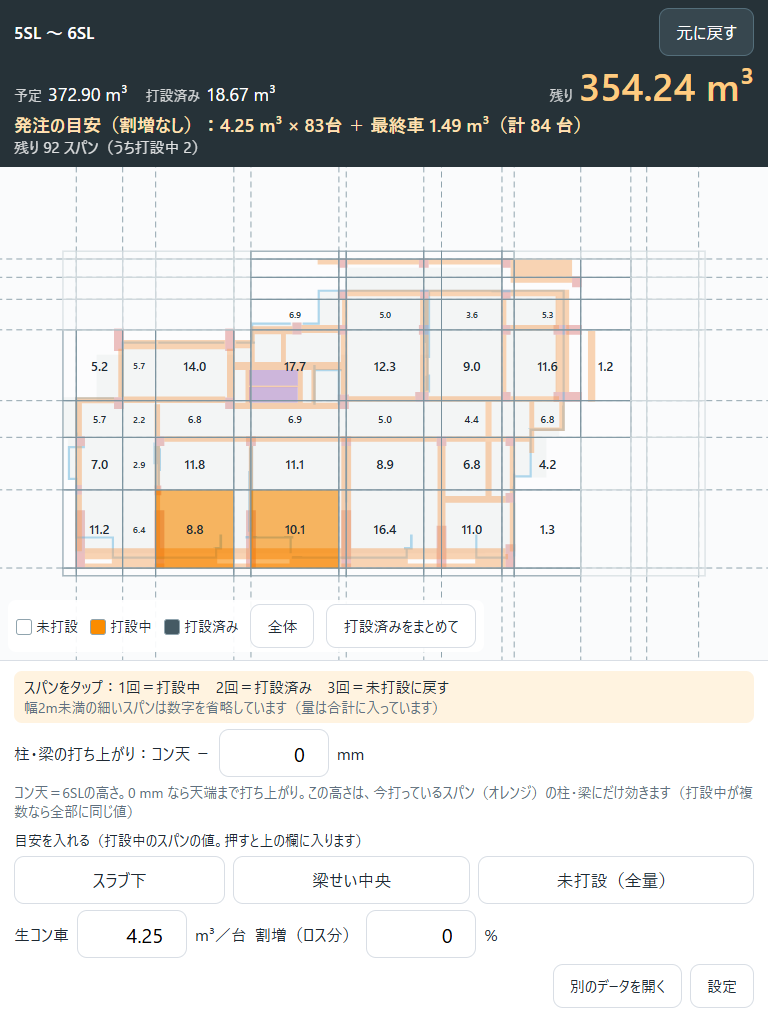
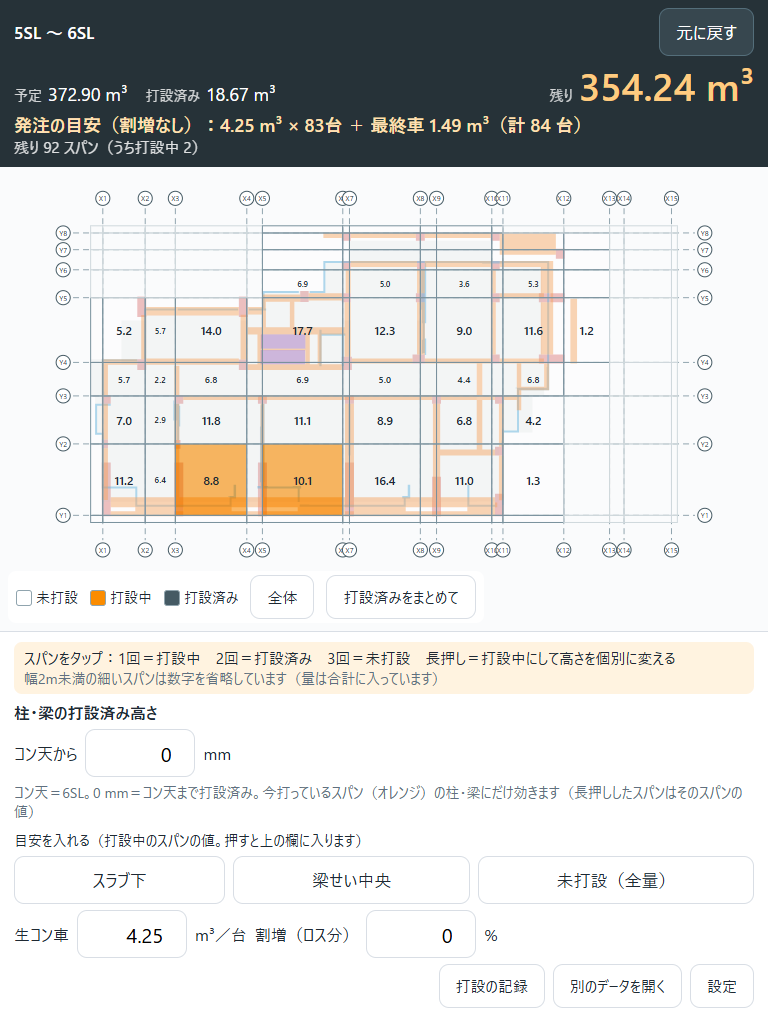
柱・梁の高さ欄を「打設済み高さ／コン天から ○ mm」の2段に、記録まわりの文言を直す
- PC・タブレットとも「柱・梁の打設済み高さ」「コン天から ［0］ mm」の2段に（利用者の要望）。結果の文・一覧表・記録の表の見出しもそろえる
- タブレット：下のボタンを「打設の記録」、設定側を「エラーの記録」に書き分け。保存した作業を消すボタンに「打設の記録も消えます」
- 長押しの説明（打設中にして高さを個別に変える）、「この高さで閉じる」「共通の高さに戻す」、見出し「選んだスパン（…）だけの打設済み高さ」
- 通り芯を建物のすぐ外で切って丸印を置き、全体表示で X1〜X15・Y1〜Y8 が見えるように
- 記録の行：残りを右端にそろえ、0 mm は「コン天まで」、取り消しは「元に戻す（直前の操作を取り消し）」。共有の説明を「Excelで開ける表」に、保存先を明記
- PC：生コン車と割増を2行に分ける（狭い幅で1文字ずつ折り返していた）
- site-reviewer 4回目・5回目のレビューと画面写真を docs/reviews/ に。版 1.4.1

Changed region(s): [[0.0, 0.1562, 1.0, 0.8125], [0.5938, 0.9375, 0.6875, 0.9688]]

diff --git a/site_app/app.js b/site_app/app.js
@@ -2,7 +2,7 @@
 import { fmt, fullVolume, parseSiteData, presetMm, totals, remaining, truckPlan } from './calc.js';
 import { STATUS_NAME, recordCsv, stamp, zoneKeyOf, zoneTitle } from './record.js';
 
-const APP_VERSION = '1.4.0'; // sw.js の VERSION と合わせる（キャッシュで古い版が動いていないか確かめる用）
+const APP_VERSION = '1.4.1'; // sw.js の VERSION と合わせる（キャッシュで古い版が動いていないか確かめる用）
 const $ = (id) => document.getElementById(id);
 const SVGNS = 'http://www.w3.org/2000/svg';
 const CAT_COLORS = { 柱: '#c62828', 梁: '#ef6c00', 壁: '#0288d1', スラブ: '#a0a4a8', 基礎: '#6d4c41', 階段: '#6a1b9a', その他: '#546e7a' };
@@ -65,7 +65,7 @@ function undo() {
   if (!prev) return;
   Object.assign(work, prev);
   if (editId && statusOf(editId) !== 'pouring') editId = null; // 戻した結果、打設中でなくなったら入力を終える
-  logEvent('元に戻す', []);
+  logEvent('元に戻す（直前の操作を取り消し）', []);
   save();
   syncInputs();
   updateCells();
@@ -153,12 +153,30 @@ function centroid(ring) {
   return [pts.reduce((a, p) => a + p[0], 0) / pts.length, pts.reduce((a, p) => a + p[1], 0) / pts.length];
 }
 
+// 通り芯（直線）を枠の中に収まる区間にする。枠に掛からなければ null（Liang–Barsky）
+function clipToFrame([sx, sy], [ex, ey], [fx0, fy0, fx1, fy1]) {
+  const dx = ex - sx, dy = ey - sy;
+  let t0 = -Infinity, t1 = Infinity; // 線を両側に延ばしてから枠で切る
+  for (const [p, q] of [[-dx, sx - fx0], [dx, fx1 - sx], [-dy, sy - fy0], [dy, fy1 - sy]]) {
+    if (Math.abs(p) < 1e-12) { if (q < 0) return null; continue; }
+    const t = q / p;
+    if (p < 0) t0 = Math.max(t0, t); else t1 = Math.min(t1, t);
+  }
+  if (!(t0 < t1)) return null;
+  return [[sx + dx * t0, sy + dy * t0], [sx + dx * t1, sy + dy * t1]];
+}
+
 function buildPlan() {
   const svg = $('plan');
   svg.replaceChildren();
   const [x0, y0, x1, y1] = data.bounds;
-  const size = Math.max(x1 - x0, y1 - y0), m = size * 0.06 + 2;
-  home = [x0 - m, -y1 - m, x1 - x0 + 2 * m, y1 - y0 + 2 * m];
+  const size = Math.max(x1 - x0, y1 - y0), m = size * 0.02 + 1;
+  // 通り芯は建物のすぐ外までで切り、丸印（X1 などの記号）をそこに置く。全体表示は丸印まで入る範囲にする
+  const r = size * 0.012, pad = size * 0.03;
+  const frame = [x0 - pad, y0 - pad, x1 + pad, y1 + pad];
+  const out = pad + r * 2.6;
+  const h = y1 - y0 + 2 * (out + m), legend = h * 0.12; // 下に重なる凡例の分だけ下側を空ける
+  home = [x0 - out - m, -y1 - out - m, x1 - x0 + 2 * (out + m), h + legend];
   setViewBox(home);
 
   // 部材の位置（外接矩形）を種別ごとに1本のパスで薄く描く
@@ -192,9 +210,10 @@ function buildPlan() {
 
   // 通り芯と記号
   const grid = el('g', { class: 'grid' });
-  const r = size * 0.012;
   for (const g of data.grids ?? []) {
-    const [sx, sy] = g.start, [ex, ey] = g.end, len = Math.hypot(ex - sx, ey - sy) || 1;
+    const seg = clipToFrame(g.start, g.end, frame);
+    if (!seg) continue;
+    const [[sx, sy], [ex, ey]] = seg, len = Math.hypot(ex - sx, ey - sy) || 1;
     const ux = (ex - sx) / len, uy = (ey - sy) / len;
     grid.appendChild(el('line', { x1: sx, y1: -sy, x2: ex, y2: -ey }));
     for (const [px, py] of [[sx - ux * r * 1.4, sy - uy * r * 1.4], [ex + ux * r * 1.4, ey + uy * r * 1.4]]) {
@@ -285,13 +304,13 @@ function render() {
   $('undo').disabled = !work.undo.length;
   const topName = (data.storeys ?? []).find((s) => Math.abs(s.elevation - data.z1) < 0.005)?.name;
   const edit = editId && cellEls.get(editId)?.cell;
-  $('depthLabel').textContent = edit ? `${edit.label} だけの打ち上がり：コン天 −` : '柱・梁の打ち上がり：コン天 −';
+  $('depthLabel').textContent = edit ? `選んだスパン（${edit.label}）だけの打設済み高さ` : '柱・梁の打設済み高さ';
   $('ownBox').classList.toggle('hidden', !edit);
+  const top = `コン天＝${topName ?? '高さ範囲の上端'}。0 mm＝コン天まで打設済み`;
   $('depthNote').textContent = edit
-    ? `このスパンだけの高さです（共通の ${work.depth.toLocaleString('ja-JP')} mm より優先）。コン天＝${topName ?? '高さ範囲の上端'}`
-    : `コン天＝${topName ?? '高さ範囲の上端'}の高さ。0 mm なら天端まで打ち上がり。` +
-      (pouring ? 'この高さは、今打っているスパン（オレンジ）の柱・梁にだけ効きます（打設中が複数なら全部に同じ値。長押ししたスパンはそのスパンの値）'
-        : '今打っているスパンがありません（スパンをタップすると打設中になります）');
+    ? `${top}。ほかの打設中のスパンは共通の ${work.depth.toLocaleString('ja-JP')} mm のまま`
+    : `${top}。` + (pouring ? '今打っているスパン（オレンジ）の柱・梁にだけ効きます（長押ししたスパンはそのスパンの値）'
+      : '今打っているスパンがありません（スパンをタップすると打設中になります）');
 }
 
 // 長押し：そのスパンを打設中にして、下段の打ち上がりをそのスパンだけの値にする
@@ -314,7 +333,7 @@ function endOwnDepth(resetToCommon) {
   if (resetToCommon && editId && work.cellDepth[editId] !== undefined) {
     pushUndo();
     delete work.cellDepth[editId];
-    logEvent('そのスパンの高さを共通の値に戻す', [editId], work.depth);
+    logEvent('そのスパンの高さを共通に戻す', [editId], work.depth);
     save();
   }
   editId = null;
@@ -504,7 +523,7 @@ function applyPreset(kind) {
   }
   pushUndo();
   setDepth(mm);
-  logEvent(`打ち上がり：${PRESET_NAME[kind]}`, depthTargets(), mm);
+  logEvent(`打設済み高さ：${PRESET_NAME[kind]}`, depthTargets(), mm);
   syncInputs();
   save();
   updateCells();
@@ -538,7 +557,7 @@ async function copyErrors() {
   }
 }
 function clearWork() {
-  if (!confirm('この端末に保存した作業（スパンの状態・入力値）をすべて消します。よろしいですか？')) return;
+  if (!confirm('この端末に保存した作業（スパンの状態・入力値・打設の記録）をすべて消します。よろしいですか？')) return;
   try {
     Object.keys(localStorage).filter((k) => k.startsWith(STORE) || k === LAST).forEach((k) => localStorage.removeItem(k));
   } catch { /* 保存できない環境 */ }
@@ -548,12 +567,14 @@ function clearWork() {
 }
 
 // ---------- 記録の画面と共有 ----------
+const depthText = (mm) => (mm ? `コン天から ${mm.toLocaleString('ja-JP')} mm` : 'コン天まで');
 function openHistory() {
   const list = $('historyList');
   list.replaceChildren();
   const items = [...work.log].reverse();
   if (!items.length) {
     const li = document.createElement('li');
+    li.className = 'none';
     li.textContent = 'まだ記録はありません（スパンをタップすると残ります）';
     list.appendChild(li);
   }
@@ -565,9 +586,16 @@ function openHistory() {
     const rest = document.createElement('span');
     rest.className = 'rest';
     rest.textContent = `残り ${fmt(e.remaining)} m³`;
-    const what = [e.zone, e.action, e.spans.length > 3 ? `${e.spans.length} スパン` : e.spans.join('・'),
-      e.depthMm !== undefined && e.depthMm !== null ? `コン天 −${e.depthMm} mm` : ''].filter(Boolean).join('　');
-    li.append(time, rest, document.createTextNode(what));
+    const what = [e.zone, e.action, e.spans.length > 3 ? `${e.spans.length} スパン` : e.spans.join('・')].filter(Boolean).join('　');
+    const body = document.createElement('span');
+    body.textContent = what;
+    if (e.depthMm !== undefined && e.depthMm !== null) {
+      const dep = document.createElement('span');
+      dep.className = 'depth';
+      dep.textContent = depthText(e.depthMm);
+      body.append('　', dep);
+    }
+    li.append(time, body, rest);
     list.appendChild(li);
   }
   $('history').classList.remove('hidden');
@@ -593,7 +621,7 @@ async function shareRecord() {
   a.download = name;
   a.click();
   setTimeout(() => URL.revokeObjectURL(a.href), 1000);
-  toast('記録をファイルに保存しました');
+  toast('記録をこの端末のダウンロードに保存しました');
 }
 
 // ---------- 起動 ----------
@@ -615,7 +643,7 @@ $('bulk').addEventListener('click', () => {
 });
 bindNumber('depth', 'depth');
 $('depth').addEventListener('change', () => { // 入力を終えたときに1件だけ記録する（1文字ごとには残さない）
-  logEvent('打ち上がり：数値で入力', depthTargets(), Math.max(0, Number($('depth').value) || 0));
+  logEvent('打設済み高さ：数値で入力', depthTargets(), Math.max(0, Number($('depth').value) || 0));
   save();
 });
 bindNumber('truck', 'truck');

diff --git a/site_app/index.html b/site_app/index.html
@@ -21,7 +21,7 @@
     <p class="note">PCアプリの「タブレット用に書き出す」で作ったファイルを選んでください</p>
     <div id="lastWork" class="lastwork hidden"></div>
     <p id="startError" class="error hidden"></p>
-    <p class="note"><button class="btn small" data-open-settings>設定・不具合の記録</button></p>
+    <p class="note"><button class="btn small" data-open-settings>設定・エラーの記録</button></p>
   </section>
 
   <!-- 作業画面 -->
@@ -51,15 +51,16 @@
     </div>
 
     <footer class="controls">
-      <div class="taphint">スパンをタップ：1回＝打設中　2回＝打設済み　3回＝未打設に戻す　長押し＝そのスパンだけ高さを変える<br>
+      <div class="taphint">スパンをタップ：1回＝打設中　2回＝打設済み　3回＝未打設　長押し＝打設中にして高さを個別に変える<br>
         <span class="small muted">幅2m未満の細いスパンは数字を省略しています（量は合計に入っています）</span></div>
+      <div class="depthhead" id="depthLabel">柱・梁の打設済み高さ</div>
       <div class="row">
-        <label for="depth" id="depthLabel">柱・梁の打ち上がり：コン天 −</label>
+        <label for="depth">コン天から</label>
         <input id="depth" type="number" inputmode="numeric" min="0" step="10" value="0"><span>mm</span>
       </div>
       <div id="ownBox" class="row hidden">
-        <button id="ownReset" class="btn small">共通の値に戻す</button>
-        <button id="ownClose" class="btn small">閉じる</button>
+        <button id="ownClose" class="btn small">この高さで閉じる</button>
+        <button id="ownReset" class="btn small">共通の高さに戻す</button>
       </div>
       <div id="depthNote" class="small muted"></div>
       <div class="presetcap">目安を入れる（打設中のスパンの値。押すと上の欄に入ります）</div>
@@ -75,7 +76,7 @@
         <input id="extra" type="number" inputmode="decimal" min="0" step="1"><span>%</span>
       </div>
       <div class="row tools">
-        <button id="openHistory" class="btn small">記録</button>
+        <button id="openHistory" class="btn small">打設の記録</button>
         <button id="openOther" class="btn small">別のデータを開く</button>
         <button id="showMissing" class="btn small hidden">含まれない部材</button>
         <button class="btn small" data-open-settings>設定</button>
@@ -94,7 +95,7 @@
   <div id="history" class="sheet hidden">
     <div class="sheetbody">
       <h2>打設の記録</h2>
-      <p class="small muted">新しい順。「記録を共有」で、この記録とスパンごとの最終状態を表（CSV）にして送れます</p>
+      <p class="small muted">新しい順。「記録を共有」で、この記録とスパンごとの最終状態をExcelで開ける表にして、メールやLINEなどで送れます</p>
       <ol id="historyList" class="historylist"></ol>
       <div class="row">
         <button id="shareRecord" class="btn">記録を共有</button>
@@ -107,16 +108,16 @@
       <h2>設定</h2>
       <p>アプリの版：<b id="appVersion"></b></p>
       <p class="small muted">データはこの端末の中だけで扱い、自動で保存します</p>
-      <h3>不具合の記録</h3>
+      <h3>エラーの記録（担当者に送る用）</h3>
       <p class="small muted">うまく動かないときは、この内容をコピーして担当者に送ってください</p>
       <textarea id="errorLog" class="errorlog" readonly></textarea>
       <div class="row">
-        <button id="copyErrors" class="btn small">記録をコピー</button>
-        <button id="clearErrors" class="btn small">記録を消す</button>
+        <button id="copyErrors" class="btn small">エラーの記録をコピー</button>
+        <button id="clearErrors" class="btn small">エラーの記録を消す</button>
       </div>
       <h3>保存した作業</h3>
       <div class="row">
-        <button id="clearWork" class="btn small">この端末に保存した作業をすべて消す</button>
+        <button id="clearWork" class="btn small">この端末に保存した作業をすべて消す（打設の記録も消えます）</button>
       </div>
       <button id="settingsClose" class="btn">閉じる</button>
     </div>

diff --git a/frontend/index.html b/frontend/index.html
@@ -83,13 +83,15 @@
       <div class="modes"><button data-mode="remain" class="mode">PCで残りのスパンを選ぶ</button></div>
       <div id="remainHelp" class="help hidden">平面図で残りのスパンを打設する順にタップ（もう一度タップで外す）。柱・梁は下の高さまで打設済みとして計算します</div>
       <div id="remainBody" class="hidden">
-        <div class="row">柱・梁の打ち上がり：コン天 −<input id="remainDepth" type="number" step="10" min="0" value="0">mm</div>
-        <div class="muted">コン天から打設済みコンクリートまでの目安高さ</div>
+        <div class="depthhead">柱・梁の打設済み高さ</div>
+        <div class="row">コン天から <input id="remainDepth" type="number" step="10" min="0" value="0"> mm</div>
+        <div class="muted">0 mm＝コン天まで打設済み</div>
         <div class="row presets"><button data-preset="slab">スラブ下</button><button data-preset="beam">梁せい中央</button><button data-preset="none">未打設（全量）</button></div>
-        <div class="row">生コン車 <input id="truckM3" type="number" step="0.25" min="0.25" value="4.25">m³／台　割増（ロス分） <input id="extraPct" type="number" step="1" min="0" value="0">%</div>
+        <div class="row nowrap">生コン車 <input id="truckM3" type="number" step="0.25" min="0.25" value="4.25"> m³／台</div>
+        <div class="row nowrap">割増（ロス分） <input id="extraPct" type="number" step="1" min="0" value="0"> %</div>
         <div id="remainResult" class="remain"></div>
         <div class="filebtns">
-          <button id="remainCsv" class="filebtn" title="残りのスパン数ごと・打ち上がり高さごとの残量と台数の表（印刷して持ち出す用）">残量の一覧表（CSV）を書き出す</button>
+          <button id="remainCsv" class="filebtn" title="残りのスパン数ごと・打設済み高さごとの残量と台数の表（印刷して持ち出す用）">残量の一覧表（CSV）を書き出す</button>
         </div>
       </div>
     </section>

diff --git a/site_app/style.css b/site_app/style.css
@@ -106,9 +106,12 @@ input[type=number] { font: inherit; font-size: 20px; width: 110px; min-height: 4
 .sheetbody { background: #fff; border-radius: 12px; padding: 16px 20px; max-width: 560px; width: 100%; max-height: 80vh; overflow-y: auto; }
 .sheetbody h2 { font-size: 19px; margin: 0 0 8px; }
 .historylist { list-style: none; padding: 0; margin: 8px 0; max-height: 50vh; overflow-y: auto; border-top: 1px solid var(--line); }
-.historylist li { padding: 8px 2px; border-bottom: 1px solid var(--line); font-size: 15px; }
-.historylist .time { color: var(--muted); font-variant-numeric: tabular-nums; margin-right: 8px; }
-.historylist .rest { float: right; font-weight: bold; font-variant-numeric: tabular-nums; color: var(--text); font-size: 15px; }
+.historylist li { display: grid; grid-template-columns: auto 1fr auto; gap: 12px; align-items: baseline; padding: 8px 2px; border-bottom: 1px solid var(--line); font-size: 15px; }
+.historylist .time { color: var(--muted); font-variant-numeric: tabular-nums; }
+.historylist .rest { font-weight: bold; font-variant-numeric: tabular-nums; color: var(--text); font-size: 15px; white-space: nowrap; text-align: right; }
+.historylist li.none { display: block; color: var(--muted); }
+.historylist .depth { white-space: nowrap; }
+.depthhead { font-weight: bold; margin: 8px 0 0; }
 .sheetbody h3 { font-size: 16px; margin: 16px 0 4px; }
 .errorlog { width: 100%; height: 120px; font: 13px/1.4 ui-monospace, monospace; border: 1px solid var(--line); border-radius: 8px; padding: 6px; }
 .toast { position: fixed; left: 50%; top: 16px; transform: translateX(-50%); z-index: 30; max-width: 90%;

diff --git a/frontend/app.js b/frontend/app.js
@@ -615,7 +615,7 @@ async function runRemain() {
     const v = await remainVolume(ids, depth);
     if (seq !== remainSeq) return;
     const t = truckPlan(v);
-    $('remainResult').innerHTML = `<div class="muted">残り ${ids.length} スパン・柱梁はコン天 −${depth.toLocaleString('ja-JP')} mm まで打設済み</div>` +
+    $('remainResult').innerHTML = `<div class="muted">残り ${ids.length} スパン・柱・梁は${depth ? `コン天から ${depth.toLocaleString('ja-JP')} mm 下` : 'コン天'}まで打設済み</div>` +
       `<div class="total">${fmt(v)} m³</div>` + (t.extra ? `<div class="muted">割増 ${t.extra}% 込み ${fmt(t.need)} m³</div>` : '') +
       `<div class="trucks">${t.extra ? '発注の目安：' : '発注の目安（割増なし）：'}${t.text}</div>`;
   } catch (e) {
@@ -635,7 +635,7 @@ async function exportRemainCsv() {
   const rows = order.map((_, k) => order.slice(k)); // 残り n, n-1, ..., 1 スパン
   const vols = await Promise.all(rows.flatMap((ids) => levels.map(([, d]) => remainVolume(ids, d))));
   const head = ['残りのスパン数', '残りのスパン（打設順）'];
-  for (const [name, d] of levels) head.push(`${name}：コン天−${d}mm（m3）`, `${name}：生コン車`);
+  for (const [name, d] of levels) head.push(`${name}：コン天から${d}mm（m3）`, `${name}：生コン車`);
   const out = [head];
   rows.forEach((ids, r) => {
     const row = [ids.length, ids.map((id) => cellById(id).label).join(' → ')];

diff --git a/site_app/record.js b/site_app/record.js
@@ -34,12 +34,12 @@ export function recordCsv(data, work, { statusOf, depthOf, now = new Date().toIS
     ['作成', stamp(now)],
     [],
     ['履歴（古い順）'],
-    ['時刻', '工区', '操作', 'スパン', '打ち上がり（コン天−mm）', '残り（m3）'],
+    ['時刻', '工区', '操作', 'スパン', '打設済み高さ（コン天からmm）', '残り（m3）'],
     ...(work.log ?? []).map((e) => [stamp(e.at), e.zone ?? '', e.action, (e.spans ?? []).join('・'),
       e.depthMm ?? '', m3(e.remaining)]),
     [],
     ['スパンごとの最終状態'],
-    ['工区', 'スパン', '状態', '打ち上がり（コン天−mm）', '残り（m3）', '全量（m3）'],
+    ['工区', 'スパン', '状態', '打設済み高さ（コン天からmm）', '残り（m3）', '全量（m3）'],
   ];
   for (const c of data.cells) {
     const full = fullVolume(c);

diff --git a/site_app/tests/record.test.js b/site_app/tests/record.test.js
@@ -30,7 +30,7 @@ test('Excel で開けるよう BOM 付き・CRLF', () => {
 test('履歴は古い順に、時刻・工区・操作・スパン・打ち上がり・残り', () => {
   const lines = csv().slice(1).split('\r\n');
   const i = lines.indexOf('履歴（古い順）');
-  assert.equal(lines[i + 1], '時刻,工区,操作,スパン,打ち上がり（コン天−mm）,残り（m3）');
+  assert.equal(lines[i + 1], '時刻,工区,操作,スパン,打設済み高さ（コン天からmm）,残り（m3）');
   assert.equal(lines[i + 2], `${stamp(WORK.log[0].at)},A工区,打設中,X1〜X2×Y1〜Y2（A）,0,6.500`);
   assert.equal(lines[i + 3], `${stamp(WORK.log[1].at)},A工区,打設済み,X1〜X2×Y1〜Y2（A）,,4.000`);
 });

diff --git a/site_app/sw.js b/site_app/sw.js
@@ -1,6 +1,6 @@
 // オフラインでも開けるよう、アプリ本体（HTML・JS・CSS・アイコン）だけを保存する。データファイルは保存しない
 // 電波があるときは常に最新版を取りに行き（古い版が残らない）、圏外のときだけ保存した版を使う
-const VERSION = '1.4.0'; // app.js の APP_VERSION と合わせる
+const VERSION = '1.4.1'; // app.js の APP_VERSION と合わせる
 const CACHE = `site-app-${VERSION}`;
 const SHELL = ['./', './index.html', './app.js', './calc.js', './record.js', './style.css', './manifest.webmanifest',
   './icons/icon-192.png', './icons/icon-512.png'];

diff --git a/frontend/style.css b/frontend/style.css
@@ -144,3 +144,5 @@ table.mini td.num { text-align: right; font-variant-numeric: tabular-nums; }
 .overlapbox { background: #fff8e1; border: 1px solid #f9a825; border-radius: 8px; padding: 8px 10px; margin-top: 6px; font-size: 12px; }
 .overlapbox b { color: #e65100; }
 details summary { cursor: pointer; font-size: 13px; padding: 8px 0; border-top: 1px solid var(--line); }
+.depthhead { font-weight: bold; margin: 8px 0 0; }
+.row.nowrap { white-space: nowrap; }

diff --git a/docs/reviews/2026-11-04_site-reviewer_4.md b/docs/reviews/2026-11-04_site-reviewer_4.md
@@ -1,0 +1,43 @@
+# site-reviewer レビュー（4回目）：タブレットの長押し・打設の記録
+
+- 依頼：前回（_3）以降に追加した「長押しでそのスパンだけの打ち上がり」と「打設の記録（記録を共有）」を、工事主任の目で一巡
+- 条件：5SL～6SL、iPad縦（768×1024）。スクリーンショット 4_tablet / 5_tablet_longpress / 6_tablet_history ほか
+- 件数：迷う 3件／意味が分からない 2件／段取りと合わない 0件
+- 対応：利用者の確認待ち（直すものを決めてから修正し、もう一度レビューする）
+
+## 前回からの変化
+- 通り芯の丸印が図の上端で切れて見えない件は未解決（4・5枚目とも）
+- コン天の説明が「長押ししたスパンはそのスパンの値」の追加で3行になった（好みの範囲）
+
+## 指摘1（迷う）：「記録」が3つの意味で使われている
+- 場面：下の「記録」ボタン、記録画面の「記録を共有」、設定の「不具合の記録」
+- 困ること：設定の「記録を消す」「記録をコピー」（故障時のログ）が打設の履歴を消すボタンに読めて怖い
+- 今の文言：「記録」「記録を共有」「不具合の記録」「記録をコピー」「記録を消す」
+- 改善案：下は「打設の記録」。設定側は「エラーの記録（担当者に送る用）」「エラーの記録を消す」「エラーの記録をコピー」
+
+## 指摘2（迷う）：長押しするとそのスパンが「打設中」になることが説明にない
+- 場面：未打設のスパンを長押ししたあと
+- 困ること：オレンジになり打設中が1増えるが、説明は「高さを変える」だけ。「閉じる」で値が残るのか、「共通の値に戻す」との違いも書かれていない
+- 今の文言：「長押し＝そのスパンだけ高さを変える」「共通の値に戻す」「閉じる」
+- 改善案：「長押し＝打設中にして、そのスパンだけ高さを変える」。「閉じる」「共通の値に戻す」に一言ずつ添える
+
+## 指摘3（迷う）：見出しの「X3〜X4×Y1〜Y2」が図のどこか分からない
+- 場面：長押しのあと、入力欄の見出し
+- 困ること：図の上端が切れて通り芯の名前が見えず、名前の裏付けが取れない（オレンジの枠でおおよそは分かる）
+- 改善案：最初の表示で通り芯の丸印まで入るようにする。見出しは「選んだスパン（X3〜X4×Y1〜Y2）だけの打ち上がり」
+
+## 指摘4（意味が分からない）：「打設の記録」の行が読みづらい
+- 場面：「記録」を開いた画面（6枚目）
+- 困ること：1行目は「コン天 −280 mm」と「残り 345.55 m³」が空きなく並ぶ。「コン天 −0 mm」が天端までの意味だと読み取れない
+- 改善案：「残り」を右端に固定して余白を取る。「コン天 −0 mm」は「天端まで（コン天 −0）」。取り消しは「（取り消し）」と分かる行に
+
+## 指摘5（意味が分からない）：「表（CSV）」と「ファイルに保存しました」
+- 場面：記録画面の説明文、「記録を共有」を押したあと
+- 困ること：「CSV」が現場に通じない。共有できない端末では保存先が分からない
+- 改善案：「Excelで開ける表にして、メールやLINEなどで送れます」。保存時は「記録をこの端末のダウンロードに保存しました」
+
+## 内部用語
+- 「CSV」（記録画面の説明文）。offset・seed・cell・from_top・member_id・region・z0・z1 は出ていない
+
+## 確認できなかったこと
+- 打設済みスパンの長押し、「元に戻す」の履歴での見え方、工区が複数のときの履歴の工区名

diff --git a/docs/reviews/2026-11-04_site-reviewer_5.md b/docs/reviews/2026-11-04_site-reviewer_5.md
@@ -1,0 +1,23 @@
+# site-reviewer レビュー（5回目）：4回目の指摘を直した後の見直し
+
+- 依頼：4回目の指摘1〜5の修正と、柱・梁の高さ欄の2段化（「柱・梁の打設済み高さ」／「コン天から ○ mm」。利用者の要望）を見直す
+- 条件：5SL～6SL。スクリーンショット 1〜8（7＝タブレット横向き、8＝PCの残量の入力欄）
+- 件数：迷う 2件／分かりにくい 2件／好み 1件（4回目の指摘は 1・2・4・5 解消、3 はほぼ解消）
+- 対応：利用者の確認待ち。新1「コン天から」は利用者が決めた言い方なので、変えるかは利用者が判断する
+
+## 4回目の指摘
+1. 「記録」が3つの意味：解消
+2. 長押しで打設中になる説明：解消
+3. 見出しのスパン名が図のどこか分からない：ほぼ解消（通り芯の丸印が見えるようになった。近い通り芯の丸印が重なる点は新5）
+4. 記録の行が読みづらい：解消
+5. 「CSV」と保存先：タブレットは解消。PC画面のボタンに「CSV」が残る
+
+## 新たな指摘
+1. 【迷う】「コン天から 280 mm」が、コン天より上か下か分からない。案：「コン天の ［280］ mm 下まで」
+2. 【迷う】記録の「打設中　X5〜X6×Y1〜Y2　コン天まで」が打ち終わったように読める。案：「（高さ：コン天まで）」と高さの設定だと分かる書き方に
+3. 【分かりにくい】横向きでは説明文が長く、右の欄の先頭に4行、高さの説明も3行。生コン車・割増が画面の下に切れる。案：タップの説明を1行に、細いスパンの注記は「？」で開く形に
+4. 【好み】PCの残量の欄に「コン天＝6SL」の説明がない。案：タブレットと同じ一言を添える
+5. 【分かりにくい】X6とX7、X10とX11 など近い通り芯の丸印が重なって番号が読めない。案：丸印を上下にずらす
+
+## 内部用語
+- PC画面の「残量の一覧表（CSV）を書き出す」「CSVで書き出す」。案：「（Excel用）」
